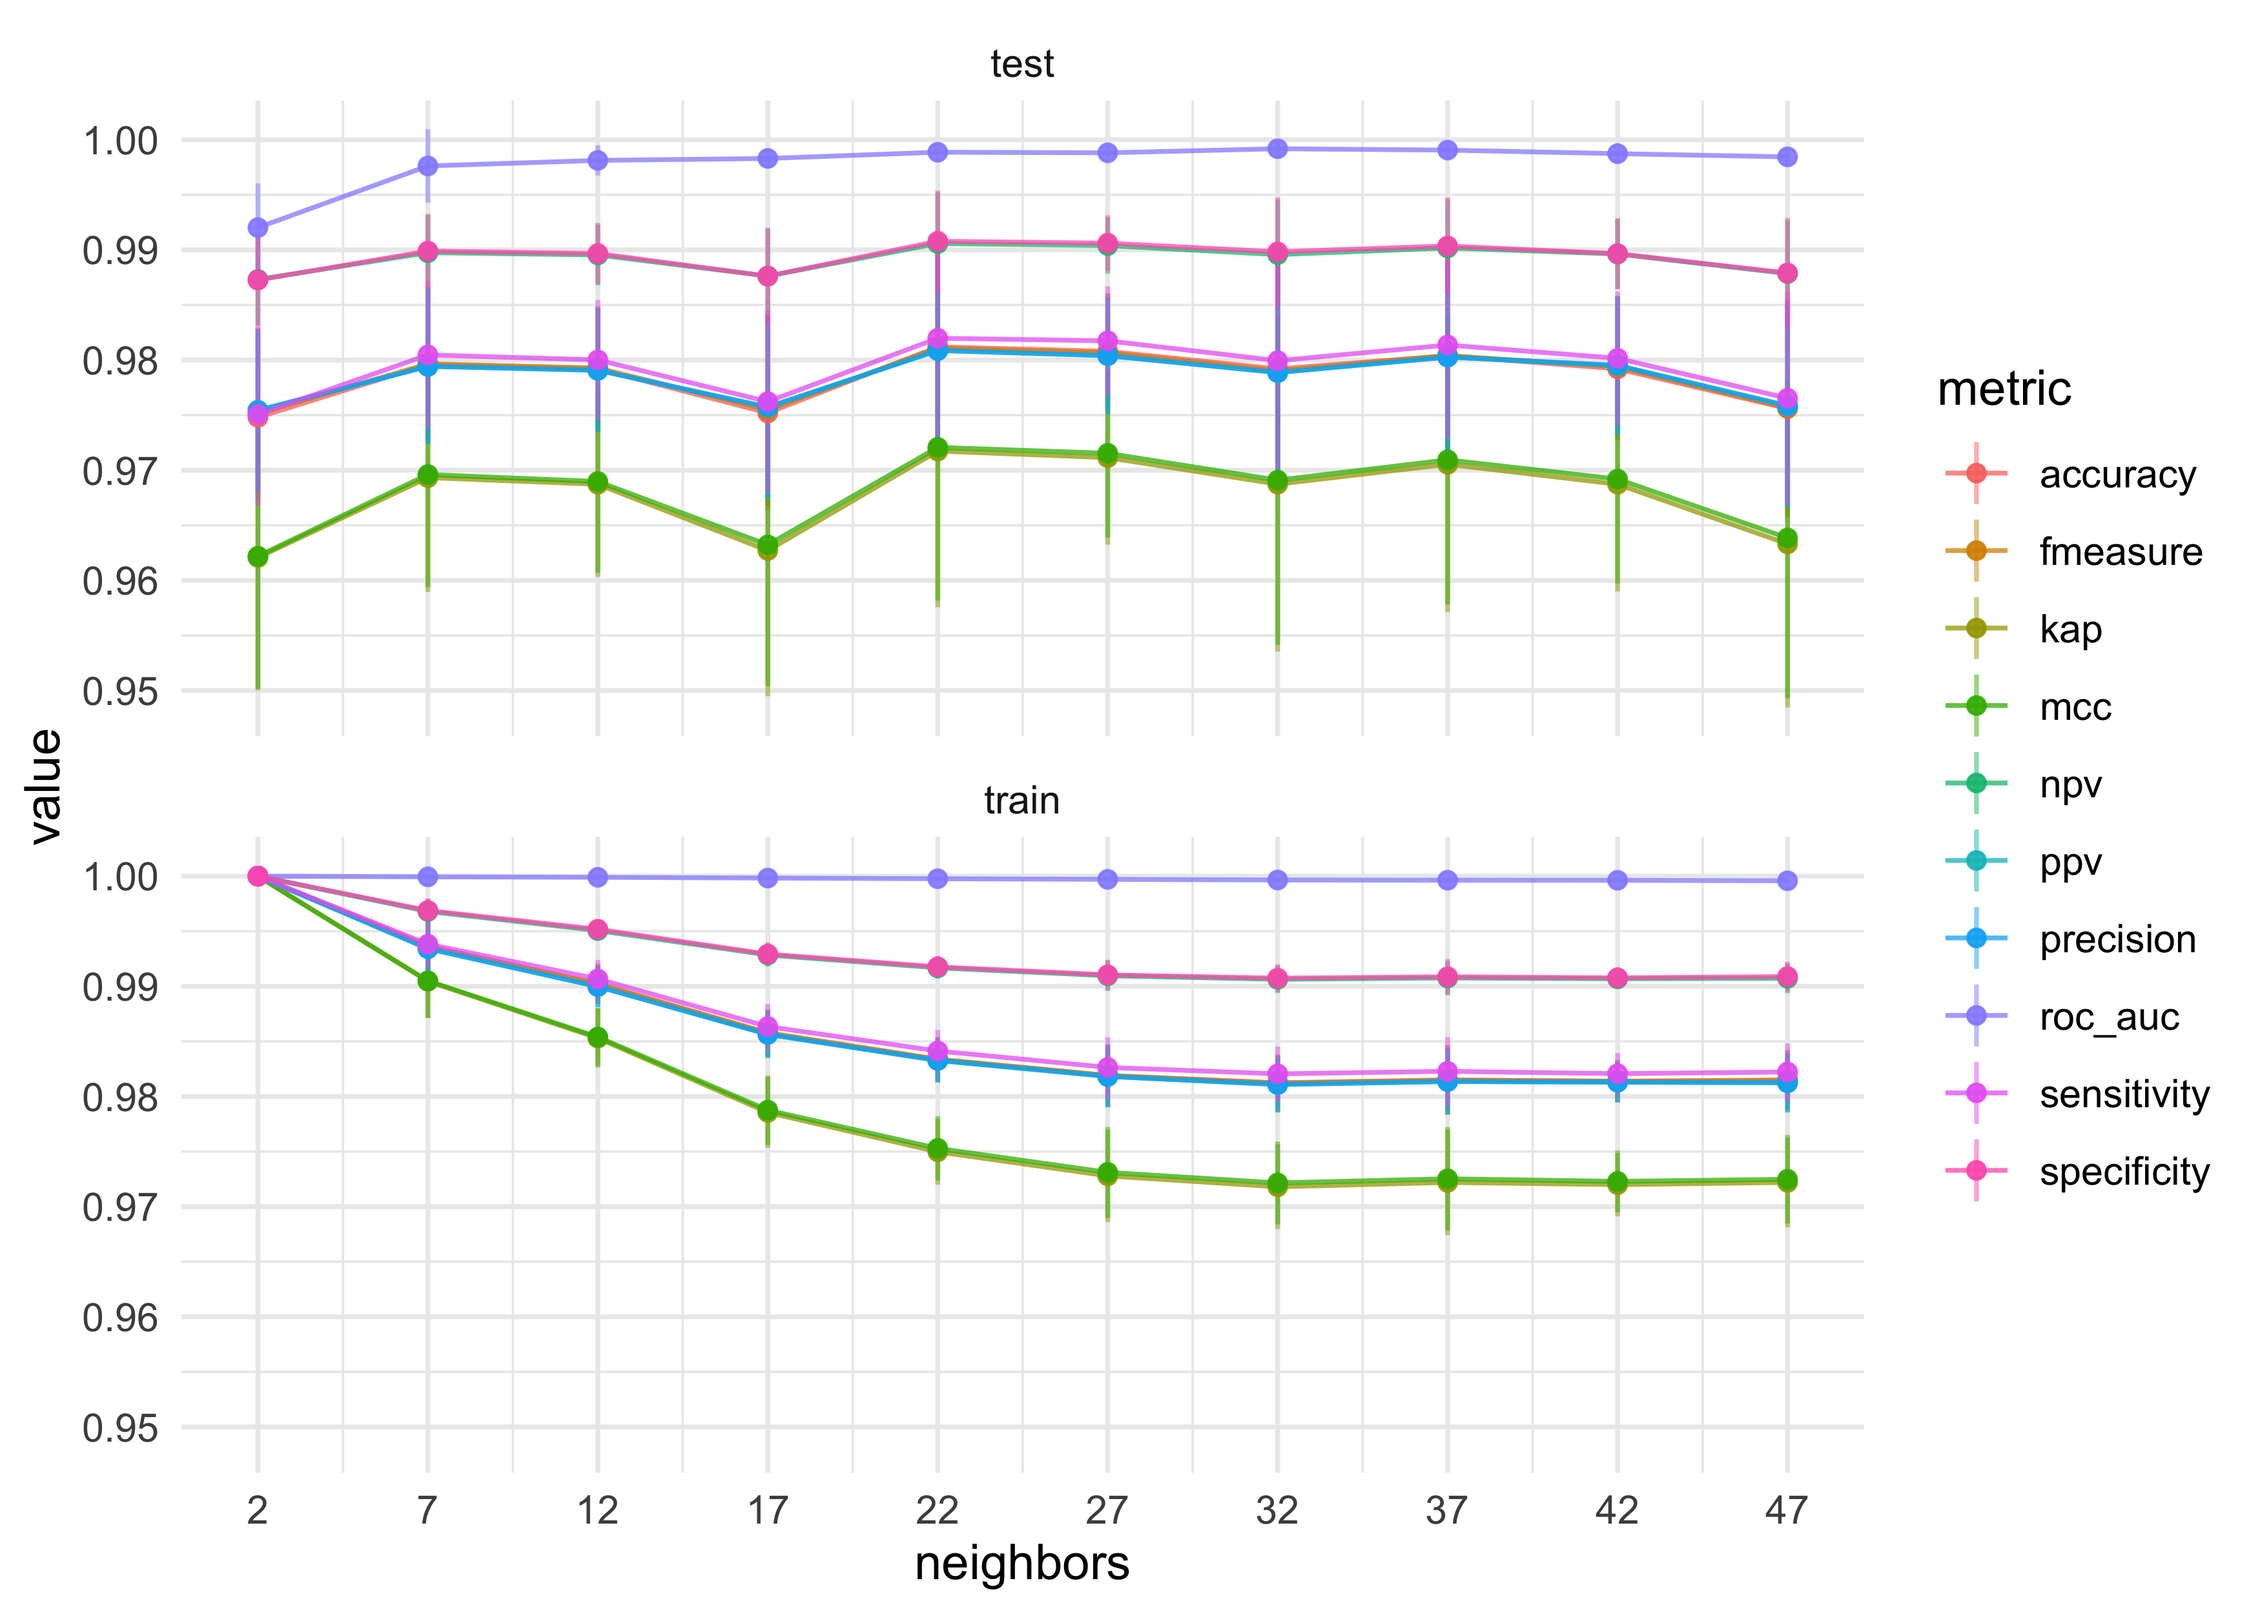
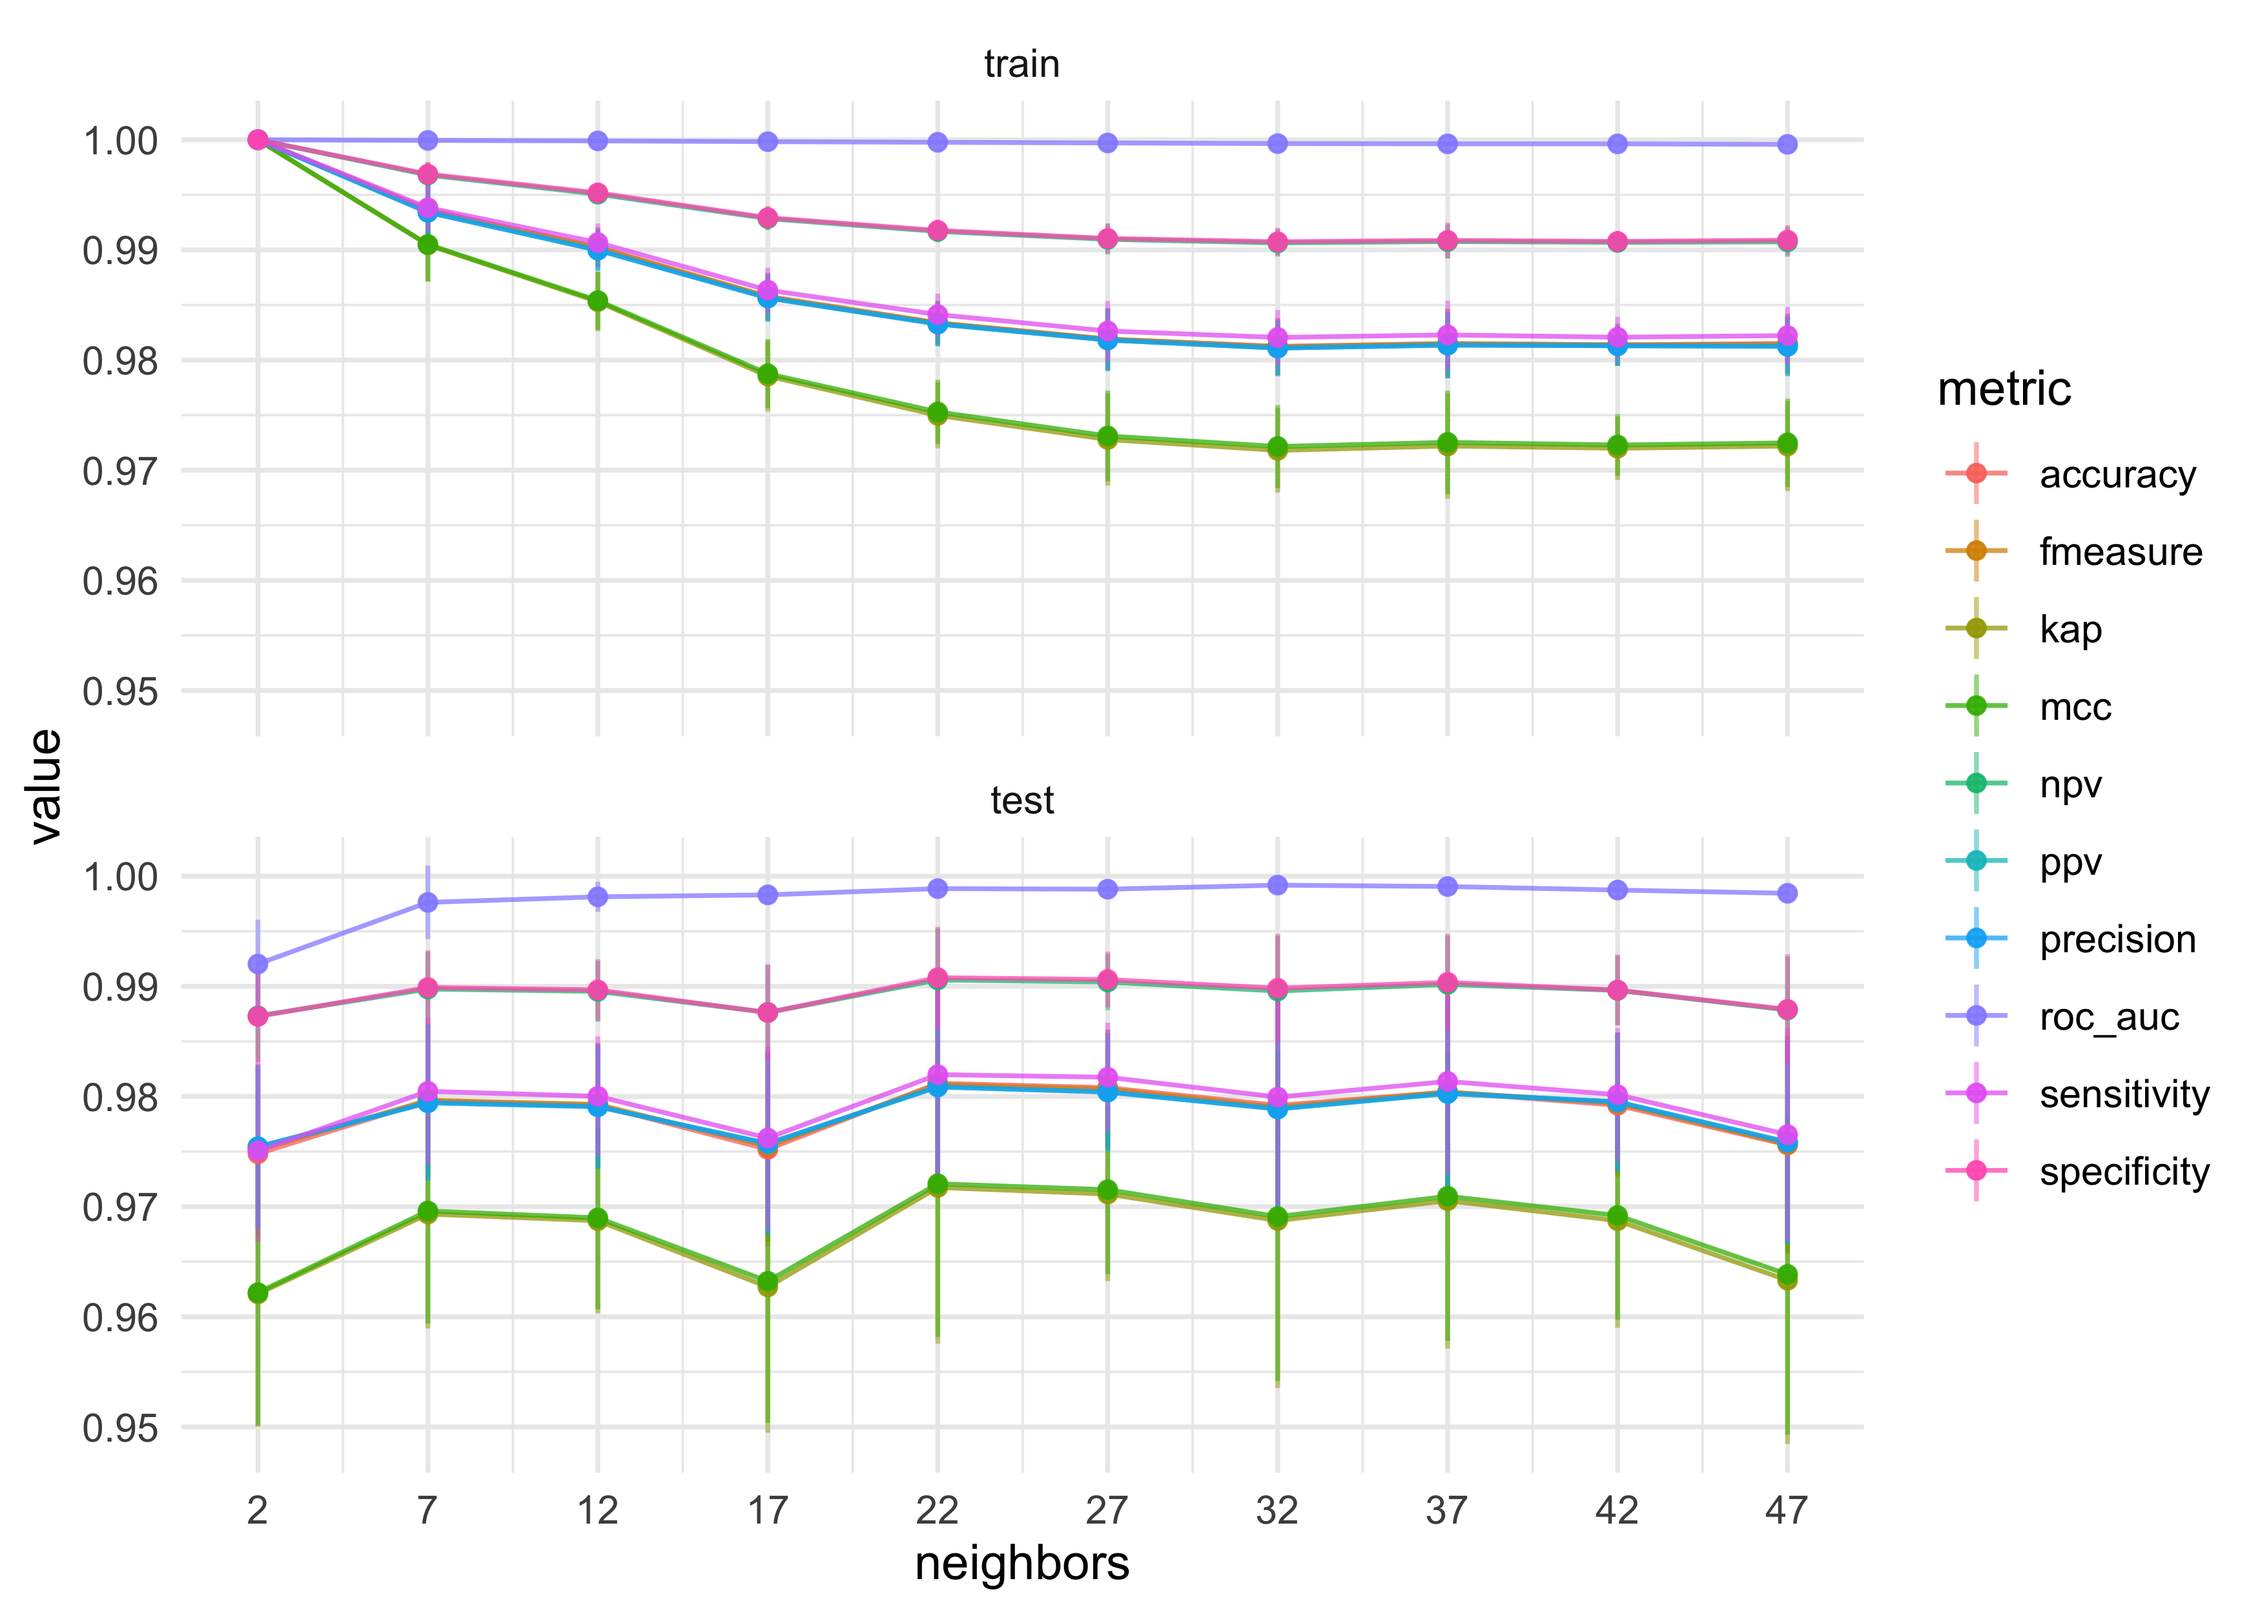
feat: grid search over all classifiers
- results are stashed (mustashe)

diff --git a/TelemetryDataAnalysis/analysis/05_008_hmm_pipelines.md b/TelemetryDataAnalysis/analysis/05_008_hmm_pipelines.md
@@ -474,7 +474,7 @@ A t-SNE plot of the data made to train the classifiers.
     }
 
     # Naive Bayes classifier.
-    run_nb_workflow <- function(data, smoothness = 5, Laplace = 5) {
+    run_nb_workflow <- function(data, smoothness = 1, Laplace = 0) {
       nb_spec <- naive_Bayes(
         mode = "classification",
         smoothness = smoothness,
@@ -485,7 +485,7 @@ A t-SNE plot of the data made to train the classifiers.
     }
 
     # SVM classifier.
-    run_svm_workflow <- function(data, cost = 2, rbf_sigma = 1) {
+    run_svm_workflow <- function(data, cost = 1, rbf_sigma = 1) {
       svm_spec <- svm_rbf(
         mode = "classification",
         cost = cost,
@@ -511,7 +511,7 @@ A t-SNE plot of the data made to train the classifiers.
     #>   <list>          <list>                  <dbl> <list>         <list>        
     #> 1 <tibble [757 ×… <tibble [59 × …         1.00  <tibble [250 … <tibble [39 ×…
     #> 2 <tibble [757 ×… <tibble [502 ×…         1.00  <tibble [250 … <tibble [248 …
-    #> 3 <tibble [757 ×… <tibble [2,136…         0.997 <tibble [250 … <tibble [732 …
+    #> 3 <tibble [757 ×… <tibble [2,136…         0.999 <tibble [250 … <tibble [732 …
     #> 4 <tibble [757 ×… <tibble [2,154…         0.999 <tibble [250 … <tibble [723 …
     #> # … with 21 more variables: test_roc_auc <dbl>, train_pred_class <list>,
     #> #   train_sensitivity <dbl>, train_specificity <dbl>, train_precision <dbl>,
@@ -538,24 +538,29 @@ A t-SNE plot of the data made to train the classifiers.
         )
     })
 
-    #> Updating stash.
+    #> Loading stashed object.
 
-    plot_classifier_tuning_results <- function(df, x) {
-      x_breaks <- df %>% pull({{ x }}) %>% unlist() %>% unique()
+    plot_classifier_tuning_results <- function(df, x, ...) {
+      x_breaks <- df %>%
+        pull({{ x }}) %>%
+        unlist() %>%
+        unique()
+      other_cols <- rlang::enquos(...)
       df %.%
         {
           select(
-            {{ x }}, rep,
+            {{ x }}, !!!other_cols, rep,
             train_roc_auc, test_roc_auc,
             train_sensitivity:test_npv
           )
           select(-test_pred_class)
-          pivot_longer(-c({{ x }}, rep), names_to = "metric")
+          pivot_longer(-c({{ x }}, !!!other_cols, rep), names_to = "metric")
           mutate(
             test_train = ifelse(str_detect(metric, "^train"), "train", "test"),
+            test_train = factor(test_train, levels = c("train", "test")),
             metric = str_remove(metric, "^test_|^train_")
           )
-          group_by({{ x }}, metric, test_train)
+          group_by({{ x }}, !!!other_cols, metric, test_train)
           summarise(
             value_stddev = sd(value),
             value = mean(value)
@@ -574,7 +579,7 @@ A t-SNE plot of the data made to train the classifiers.
         scale_x_continuous(breaks = x_breaks)
     }
 
-    plot_classifier_tuning_results(coarse_tuning_knn, neighbors)
+    plot_classifier_tuning_results(coarse_tuning_knn, x = neighbors)
 
 ![](05_008_hmm_pipelines_files/figure-gfm/unnamed-chunk-12-1.png)<!-- -->
 
@@ -599,11 +604,121 @@ A t-SNE plot of the data made to train the classifiers.
 
 ![](05_008_hmm_pipelines_files/figure-gfm/unnamed-chunk-13-1.png)<!-- -->
 
-**To-Do**:
+##### Random forest hyperparameter tuning
 
--   continue with the practice sample started above:
-    -   look into using TidyModels for the following analysis
-    -   split the data into training and testing data
-    -   fit a few different classifiers with this training data and see
-        how well they do
-        -   decision forest, decision tree, kNN, SVM, naive Bayes
+    n_rep <- 10
+    coarse_rf_grid <- expand.grid(
+      mtry = 1:6,
+      trees = seq(10, 100, 10),
+      rep = 1:n_rep
+    )
+
+    stash("coarse_tuning_rf", depends_on = "coarse_rf_grid", {
+      coarse_tuning_rf <- pmap(coarse_rf_grid, function(mtry, trees, ...) {
+        run_rf_workflow(data = eg_training_data, mtry = mtry, trees = trees)
+      }) %>%
+        bind_rows() %>%
+        bind_cols(coarse_rf_grid)
+    })
+
+    #> Loading stashed object.
+
+    plot_classifier_tuning_results(coarse_tuning_rf, x = trees, mtry) +
+      facet_grid(mtry ~ test_train)
+
+![](05_008_hmm_pipelines_files/figure-gfm/unnamed-chunk-14-1.png)<!-- -->
+
+    n_rep <- 10
+    fine_rf_grid <- expand.grid(
+      mtry = 4,
+      trees = seq(2, 20, 2),
+      rep = 1:n_rep
+    )
+
+    stash("fine_tuning_rf", depends_on = "fine_rf_grid", {
+      fine_tuning_rf <- pmap(fine_rf_grid, function(mtry, trees, ...) {
+        run_rf_workflow(data = eg_training_data, mtry = mtry, trees = trees)
+      }) %>%
+        bind_rows() %>%
+        bind_cols(fine_rf_grid)
+    })
+
+    #> Loading stashed object.
+
+    plot_classifier_tuning_results(fine_tuning_rf, x = trees, mtry)
+
+![](05_008_hmm_pipelines_files/figure-gfm/unnamed-chunk-15-1.png)<!-- -->
+
+##### Naive Bayes hyperparameter tuning
+
+    n_rep <- 20
+    coarse_nb_grid <- expand_grid(
+      smoothness = seq(0.5, 3, 0.5),
+      rep = 1:n_rep
+    )
+
+    stash("coarse_tuning_nb", depends_on = "coarse_nb_grid", {
+      coarse_tuning_nb <- pmap(coarse_nb_grid, function(smoothness, ...) {
+        suppressWarnings(
+          run_nb_workflow(eg_training_data, smoothness = smoothness, Laplace = 0)
+        )
+      }) %>%
+        bind_rows() %>%
+        bind_cols(coarse_nb_grid)
+    })
+
+    #> Updating stash.
+
+    plot_classifier_tuning_results(coarse_tuning_nb, x = smoothness)
+
+![](05_008_hmm_pipelines_files/figure-gfm/unnamed-chunk-16-1.png)<!-- -->
+
+##### SVM hyperparameter tuning
+
+    n_rep <- 5
+    coarse_svm_grid <- expand_grid(
+      cost = seq(5, 20, 6),
+      rbf_sigma = 10^(seq(-3, 0, 1)),
+      rep = 1:n_rep
+    )
+
+    stash("coarse_tuning_svm", depends_on = "coarse_svm_grid", {
+      coarse_tuning_svm <- pmap(coarse_svm_grid, function(cost, rbf_sigma, ...) {
+        run_svm_workflow(eg_training_data, cost = cost, rbf_sigma = rbf_sigma)
+      }) %>%
+        bind_rows() %>%
+        bind_cols(coarse_svm_grid)
+    })
+
+    #> Loading stashed object.
+
+    plot_classifier_tuning_results(coarse_tuning_svm, x = cost, rbf_sigma) +
+      facet_grid(rbf_sigma ~ test_train, scales = "free_y")
+
+![](05_008_hmm_pipelines_files/figure-gfm/unnamed-chunk-17-1.png)<!-- -->
+
+    n_rep <- 10
+    fine_svm_grid <- expand_grid(
+      cost = seq(5, 20, 2),
+      rbf_sigma = 10^(seq(-3, 0, 1)),
+      rep = 1:n_rep
+    )
+
+    stash("fine_tuning_svm", depends_on = "fine_svm_grid", {
+      fine_tuning_svm <- pmap(fine_svm_grid, function(cost, rbf_sigma, ...) {
+        run_svm_workflow(eg_training_data, cost = cost, rbf_sigma = rbf_sigma)
+      }) %>%
+        bind_rows() %>%
+        bind_cols(fine_svm_grid)
+    })
+
+    #> Loading stashed object.
+
+    plot_classifier_tuning_results(fine_tuning_svm, x = cost, rbf_sigma) +
+      facet_grid(rbf_sigma ~ test_train)
+
+![](05_008_hmm_pipelines_files/figure-gfm/unnamed-chunk-18-1.png)<!-- -->
+
+#### Table of best classifier hyperparameters
+
+(TODO)
